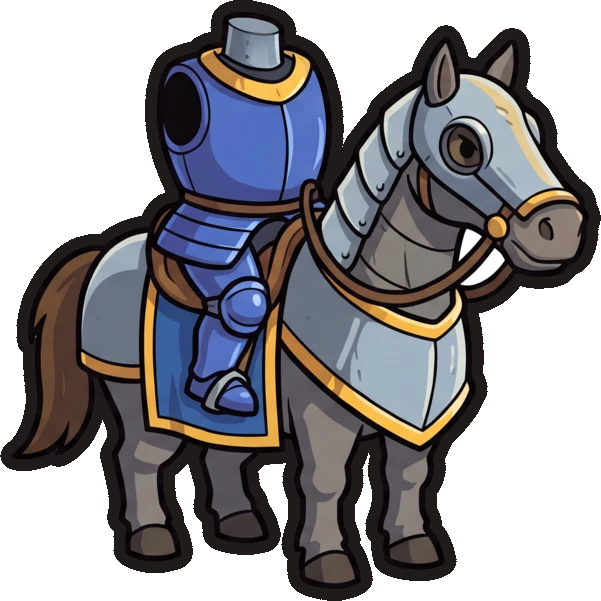
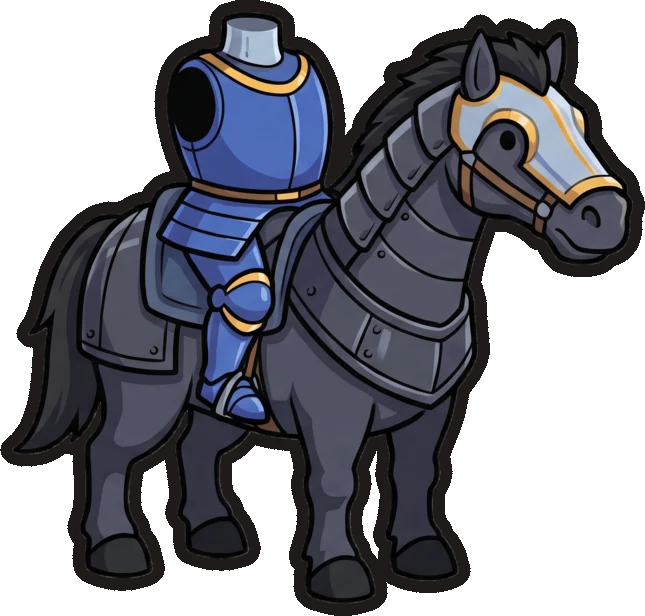
Repaint the patrol knight with a forward horse head, armet and lance over the helm

diff --git a/src/components/PieceRig.tsx b/src/components/PieceRig.tsx
@@ -66,7 +66,7 @@ const Patch = ({ x, y, fill }: { x: number; y: number; fill: string }) =>
   <g transform={`rotate(-8 ${x} ${y})`}><rect x={x - 4.5} y={y - 4.5} width="9" height="9" rx="1.2" fill={fill} {...f} strokeWidth="1.6" /><path d={`M${x - 3} ${y - 6} L${x - 3} ${y - 3.5} M${x + 3} ${y + 3.5} L${x + 3} ${y + 6}`} stroke={INK} strokeWidth="1.2" /></g>;
 
 /** `mouths` replaces the toon yell/ouch overlay; null draws none. */
-export type Figure = { back?: ReactNode; body: ReactNode; armBack?: ReactNode; prop?: ReactNode; armFront: ReactNode; head: ReactNode; mouths?: ReactNode; propOrigin: string; shield: [number, number]; mouth: [number, number, number] };
+export type Figure = { back?: ReactNode; body: ReactNode; armBack?: ReactNode; prop?: ReactNode; armFront: ReactNode; armFrontOverHead?: boolean; head: ReactNode; mouths?: ReactNode; propOrigin: string; shield: [number, number]; mouth: [number, number, number] };
 
 function king(rebel: boolean, c: Palette): Figure {
   return {
@@ -308,8 +308,9 @@ export function PieceRig({ kind, side, action = "idle", defending = false, facin
       {fig.armBack}
       {fig.body}
       {fig.prop}
-      {fig.armFront}
+      {!fig.armFrontOverHead && fig.armFront}
       <g className="head-tilt"><g className="head">{fig.head}{fig.mouths === undefined ? <Mouths x={fig.mouth[0]} y={fig.mouth[1]} w={fig.mouth[2]} /> : fig.mouths}<path className="sweat" d={`M${fig.mouth[0] + 14} ${fig.mouth[1] - 22} Q${fig.mouth[0] + 18} ${fig.mouth[1] - 15} ${fig.mouth[0] + 14} ${fig.mouth[1] - 13} Q${fig.mouth[0] + 10} ${fig.mouth[1] - 15} ${fig.mouth[0] + 14} ${fig.mouth[1] - 22} Z`} fill="#8fd3e8" stroke={INK} strokeWidth="1.4" /></g></g>
+      {fig.armFrontOverHead && fig.armFront}
       {wounded && <g className="bandage"><rect x="56" y={kind === "pawn" ? 48 : 30} width="12" height="5" rx="1" fill="#fffaf0" {...f} strokeWidth="1.6" transform={`rotate(25 62 ${kind === "pawn" ? 50 : 32})`} /><path d="M30 100 L36 96" stroke={INK} strokeWidth="1.6" /></g>}
       <Shield rebel={rebel} c={c} at={fig.shield} />
       <path className="fx-smear" d="M64 30 Q100 56 80 102" fill="none" stroke={INK} strokeWidth="5" strokeLinecap="round" opacity=".55" />

diff --git a/src/components/paint/specs.ts b/src/components/paint/specs.ts
@@ -36,6 +36,9 @@ export type Painted = {
   face?: { x: number; y: number; gap: number; r: number; glow?: boolean; eyes?: false; brows?: string; skin?: keyof typeof TONES };
   /** Draw the back arm over the body, for a torso painted with an empty armhole. */
   armBackOver?: boolean;
+  /** Draw the front arm and its prop over the head, for a prop whose tip stands where the
+   * headgear would otherwise cover it. */
+  armFrontOverHead?: boolean;
   /** Extra class on the prop group, for a piece-specific strike in rig.css. */
   propClass?: string;
   shield: Xy;
@@ -215,16 +218,17 @@ export const PAINTED: Record<string, Painted> = {
   },
   "patrol-knight": {
     id: "patrol-knight",
-    unit: 0.105,
+    unit: 0.099,
     parts: {
-      armBack: { anchor: [75, 85], at: [50.5, 56] },
-      body: { anchor: [300, 601], at: [50, 108] },
-      armFront: { anchor: [190, 80], at: [39.5, 55], hand: [55, 200] },
-      prop: { anchor: [55, 410], scale: 1.1 },
-      head: { anchor: [205, 290], at: [46.5, 51], scale: 1.05 },
+      armBack: { anchor: [70, 60], at: [48, 56], scale: 0.8 },
+      body: { anchor: [322, 603], at: [50, 108] },
+      armFront: { anchor: [200, 70], at: [37, 58], hand: [55, 210], scale: 0.85 },
+      prop: { anchor: [54, 640], scale: 1.08 },
+      head: { anchor: [200, 320], at: [44, 55], scale: 1.25 },
     },
-    face: { x: 48.2, y: 40.7, gap: 3.3, r: 2.5, eyes: false },
+    face: { x: 45.9, y: 38.9, gap: 3.3, r: 2.5, eyes: false },
     armBackOver: true,
+    armFrontOverHead: true,
     shield: [30, 84],
     mouth: [48, 48, 5],
   },

diff --git a/src/components/PaintedRig.tsx b/src/components/PaintedRig.tsx
@@ -87,6 +87,7 @@ export function buildPainted(spec: Painted): Figure {
       {door && <g className="door" style={origin(zoomed(spec, door.at))}><Img spec={spec} name="door" /></g>}
       {crown && <g className="crown"><Img spec={spec} name="crown" /></g>}
     </>,
+    armFrontOverHead: spec.armFrontOverHead,
     mouths: null,
     propOrigin: `${hand[0]}px ${hand[1]}px`,
     shield: zoomed(spec, spec.shield),

diff --git a/docs/art/PAINTED.md b/docs/art/PAINTED.md
@@ -42,6 +42,8 @@ optional recipe `fuzz` (background-fill tolerance, default 14) for parts with ga
 - Arms carry their own inline `transform-origin` at the shoulder, not the shared 60,70 / 40,70.
 - `armBackOver` draws the back arm over the body where the torso was painted with an
   empty armhole (patrol pieces, the stonemason).
+- `armFrontOverHead` draws the front arm and its prop after the head, for a prop tip the
+  headgear would otherwise cover; without it the head draws over the arm (patrol knight).
 - Lost: the pupil dart and blink on the patrol rook (his slits are painted); the toon
   yell and ouch mouths (none of the new art has them either). Everything else plays.
 
@@ -131,6 +133,11 @@ optional recipe `fuzz` (background-fill tolerance, default 14) for parts with ga
   horse's rump side, as in the SVG rig, so `rig-lance` couches it forward over the horse.
   The front arm is turned 50° in the cut so it reaches out to the lance and crosses it only
   at the fist; a straighter arm hid the lance behind the sleeve.
-- **The plume limits the patrol helm.** The head draws over the prop, and the plume sweeps
-  back over the lance's side, so a bigger helm hides the lance tip. Head scale 1.05 keeps
-  the tip clear; the last judge wanted the helm about 1.6× bigger.
+- **Patrol knight repaint.** The pose asks for a dark charcoal horse whose head
+  stretches forward with a gap before the rider, a big armet (domed, pointed visor, one eye
+  slit, two breath slits, not a T-slot bucket that rhymed with the rebel's) and a low grip on
+  the lance. The plume still sweeps back over the lance side whatever the prompt says, so the
+  spec sets `armFrontOverHead`: the front arm and lance draw over the head, and the helm can
+  be 1.25× with the tip still showing. The grip anchor sits near the butt (prop pixel y 640
+  of 749), so `rig-lance` couches the long end forward past the horse's nose; gripped
+  mid-shaft, the butt trailed backward and the strike read as pointing away from its hit.

diff --git a/docs/art/DECISIONS.md b/docs/art/DECISIONS.md
@@ -601,3 +601,19 @@ Done on an early "chunky" lineup (big heads, flat colour, thick outline).
   forward, and a darker horse. The rebel's neckerchief is still small, and the reference's
   hip satchel is missing. Cost: about $1.30 for both (four pose-and-parts runs, one
   parts-only re-roll).
+
+## 2026-11-01: patrol knight repainted
+- Why: the painted patrol knight read as a lump at 48px (readability 5): the horse head
+  tucked under the rider's arm, the lance hugged the plume, the helm was about 18% of the figure.
+- Re-rolled twice (`paint-patrol-knight.json`). Round 1: dark charcoal horse with its head
+  pushed forward, bigger great-helm, lance gripped mid-shaft. Round 2: an armet like the
+  reference (the T-slot great-helm rhymed with the rebel's bucket) and a low grip, so the
+  couched lance points forward past the horse's nose on the strike.
+- Draw order: a new opt-in `armFrontOverHead` spec flag puts the front arm and lance over the
+  head, since the plume sweeps back over the lance side in every roll. Other rigs render as before.
+- Judge rounds (readability/style/likeness/motion/consistency): 7/7/6/4/7 (the strike's long
+  butt trailed backward, so it pointed away from its hit) → 8/8/8/7/8 (pass).
+- Open, per the last judge: on the strike the shared squash narrows the horse and the star
+  covers most of the lance; at 48px the dark horse and mid-blue armour merge, and the rider's
+  torso is small beside the horse; the death head pop is the shared one and lifts the big helm
+  clear of the shoulders. Cost: about $0.58 (two pose-and-parts runs).
